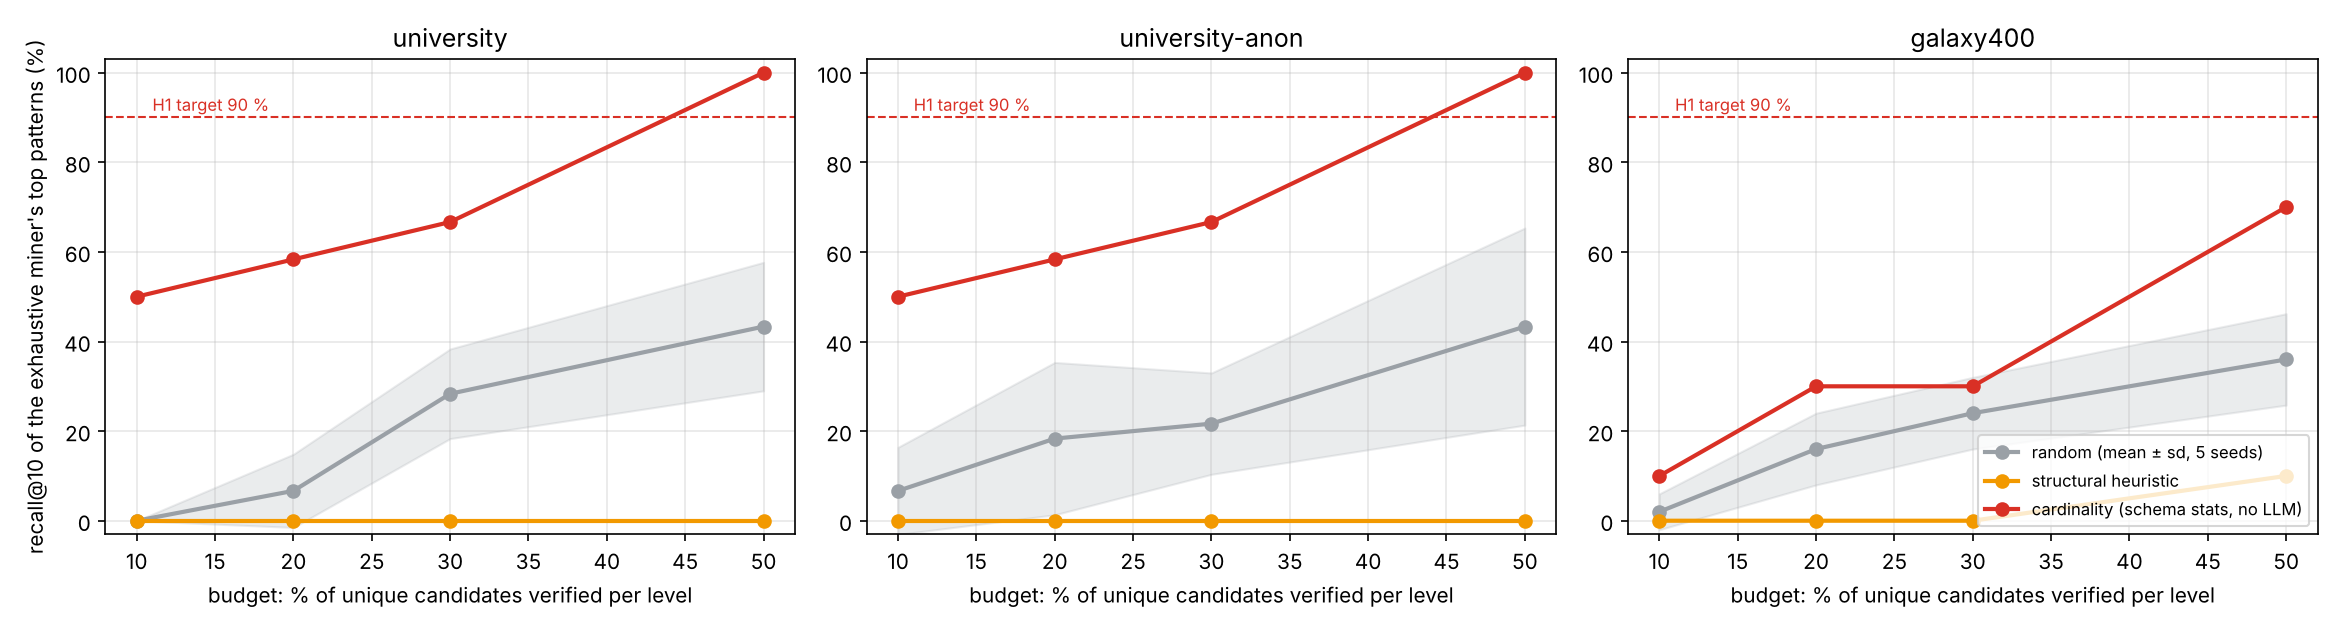
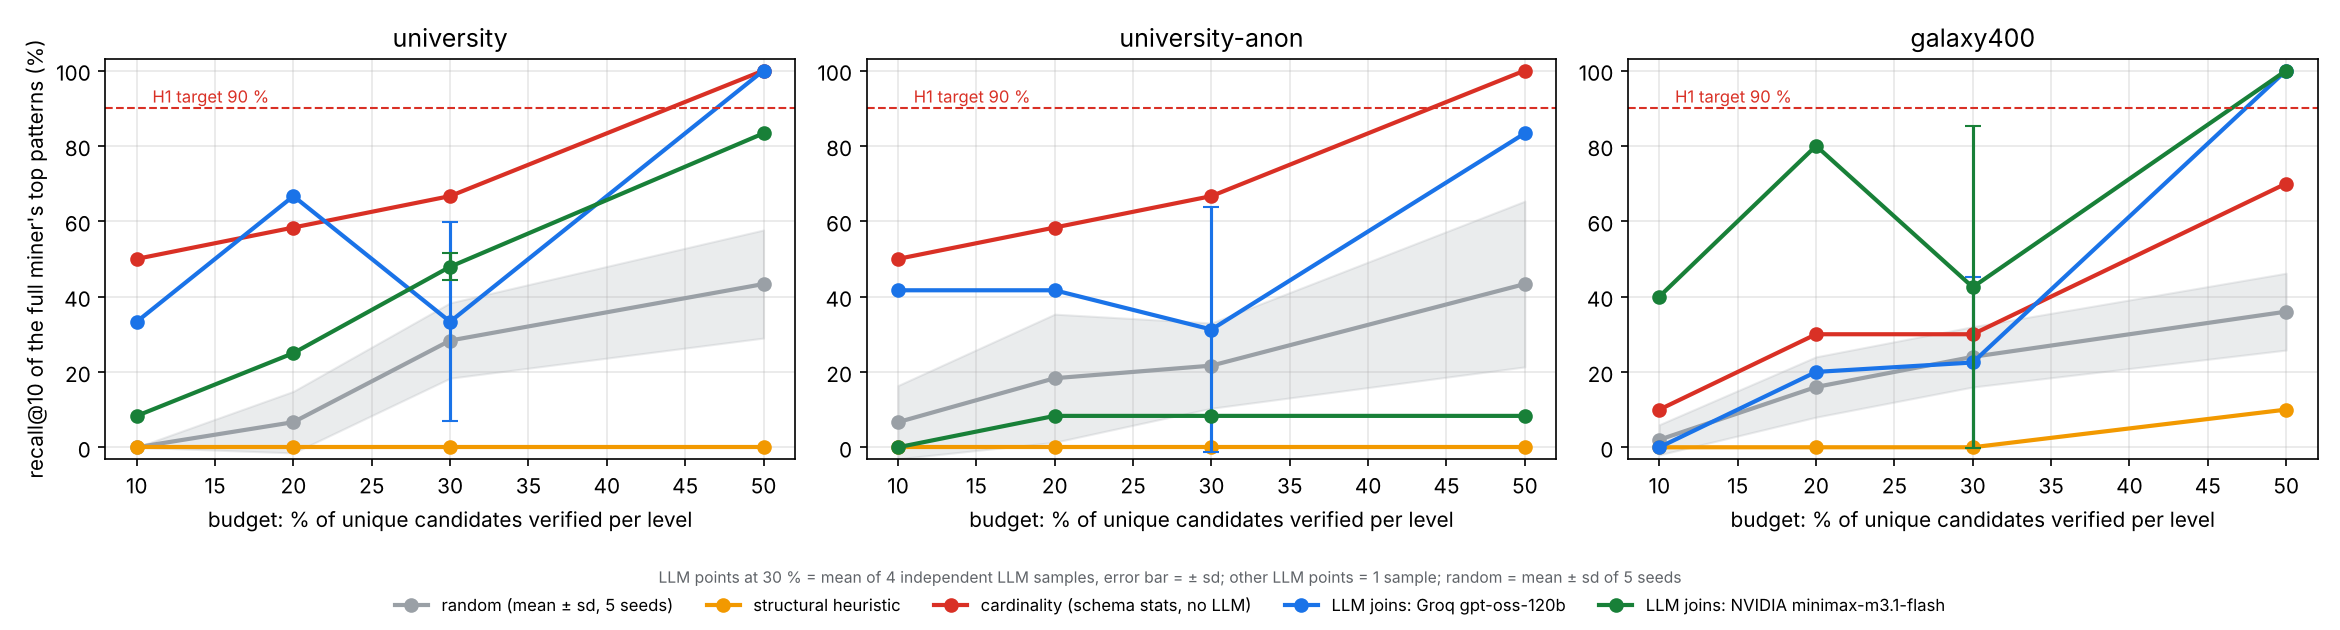
results: regenerate summaries, verdicts and figures

diff --git a/results/results.md b/results/results.md
@@ -8,15 +8,24 @@ Exhaustive @ 100 %: 641 patterns, 13053 candidates verified, 31.4 s; upstream mi
 |---|---:|---:|---:|---:|---:|---:|---:|---:|---:|
 | cardinality | 10 % | 50 % | 41 % | 0.0/3 | 582 | 6.9 | 0.0 | – | – |
 | heuristic | 10 % | 0 % | 0 % | 0.0/3 | 111 | 1.7 | 0.0 | – | – |
+| llm:groq | 10 % | 33 % | 21 % | 0.0/3 | 713 | 15.3 | 9.4 | 4282 / 6250 | 0/3 |
+| llm:nvidia | 10 % | 8 % | 7 % | 0.0/3 | 658 | 44.4 | 39.0 | 4659 / 1551 | 0/3 |
 | random | 10 % | 0 % ± 0 | 3 % | 0.0/3 | 245 | 2.8 | 0.0 | – | – |
 | cardinality | 20 % | 58 % | 66 % | 0.0/3 | 1548 | 11.8 | 0.0 | – | – |
 | heuristic | 20 % | 0 % | 0 % | 0.0/3 | 222 | 1.9 | 0.0 | – | – |
+| llm:groq | 20 % | 67 % | 41 % | 1.0/3 | 1995 | 11.7 | 0.0 | 4282 / 6250 | 0/3 |
+| llm:nvidia | 20 % | 25 % | 41 % | 0.0/3 | 2201 | 12.9 | 0.0 | 4659 / 1551 | 0/3 |
 | random | 20 % | 7 % ± 8 | 8 % | 0.2/3 | 823 | 4.7 | 0.0 | – | – |
 | cardinality | 30 % | 67 % | 76 % | 0.0/3 | 3037 | 19.6 | 0.0 | – | – |
 | heuristic | 30 % | 0 % | 0 % | 0.0/3 | 782 | 2.4 | 0.0 | – | – |
+| llm-direct:groq | 30 % | 67 % | 76 % | 0.0/3 | 2754 | 238.5 | 223.0 | 6346 / 6726 | 151/154 |
+| llm:groq | 30 % | 33 % ± 26 | 30 % | 0.2/3 | 3246 | 31.0 | 16.9 | 4282 / 4602 | 0/3 |
+| llm:nvidia | 30 % | 48 % ± 4 | 44 % | 0.0/3 | 3309 | 58.4 | 42.8 | 4659 / 1551 | 0/3 |
 | random | 30 % | 28 % ± 10 | 23 % | 1.2/3 | 1525 | 7.0 | 0.0 | – | – |
 | cardinality | 50 % | 100 % | 100 % | 3.0/3 | 6527 | 31.9 | 0.0 | – | – |
 | heuristic | 50 % | 0 % | 0 % | 0.0/3 | 2956 | 7.4 | 0.0 | – | – |
+| llm:groq | 50 % | 100 % | 90 % | 3.0/3 | 6378 | 23.8 | 0.0 | 4282 / 6250 | 0/3 |
+| llm:nvidia | 50 % | 83 % | 83 % | 3.0/3 | 6288 | 23.3 | 0.0 | 4659 / 1551 | 0/3 |
 | random | 50 % | 43 % ± 14 | 39 % | 1.4/3 | 3793 | 12.8 | 0.0 | – | – |
 
 ### university-anon
@@ -27,15 +36,24 @@ Exhaustive @ 100 %: 641 patterns, 13053 candidates verified, 31.1 s; upstream mi
 |---|---:|---:|---:|---:|---:|---:|---:|---:|---:|
 | cardinality | 10 % | 50 % | 41 % | 0.0/3 | 582 | 7.3 | 0.0 | – | – |
 | heuristic | 10 % | 0 % | 0 % | 0.0/3 | 111 | 1.9 | 0.0 | – | – |
+| llm:groq | 10 % | 42 % | 34 % | 1.0/3 | 974 | 14.1 | 3.9 | 3954 / 7431 | 0/3 |
+| llm:nvidia | 10 % | 0 % | 0 % | 0.0/3 | 551 | 100.7 | 95.5 | 4167 / 1551 | 0/3 |
 | random | 10 % | 7 % ± 10 | 4 % | 0.2/3 | 255 | 2.7 | 0.0 | – | – |
 | cardinality | 20 % | 58 % | 66 % | 0.0/3 | 1615 | 12.9 | 0.0 | – | – |
 | heuristic | 20 % | 0 % | 0 % | 0.0/3 | 222 | 2.0 | 0.0 | – | – |
+| llm:groq | 20 % | 42 % | 41 % | 1.0/3 | 1978 | 12.1 | 0.0 | 3954 / 7431 | 0/3 |
+| llm:nvidia | 20 % | 8 % | 14 % | 0.0/3 | 2254 | 14.5 | 0.0 | 4167 / 1551 | 0/3 |
 | random | 20 % | 18 % ± 17 | 13 % | 0.2/3 | 847 | 4.9 | 0.0 | – | – |
 | cardinality | 30 % | 67 % | 76 % | 0.0/3 | 3037 | 20.9 | 0.0 | – | – |
 | heuristic | 30 % | 0 % | 0 % | 0.0/3 | 333 | 2.0 | 0.0 | – | – |
+| llm-direct:groq | 30 % | 67 % | 76 % | 0.0/3 | 3037 | 291.3 | 274.8 | 6045 / 6694 | 167/170 |
+| llm:groq | 30 % | 31 % ± 32 | 41 % | 1.5/3 | 2970 | 31.7 | 18.8 | 3954 / 4097 | 0/3 |
+| llm:nvidia | 30 % | 8 % ± 0 | 12 % | 0.0/3 | 3195 | 57.8 | 43.1 | 4167 / 1551 | 0/3 |
 | random | 30 % | 22 % ± 11 | 23 % | 0.4/3 | 1703 | 7.8 | 0.0 | – | – |
 | cardinality | 50 % | 100 % | 100 % | 3.0/3 | 6527 | 31.7 | 0.0 | – | – |
 | heuristic | 50 % | 0 % | 0 % | 0.0/3 | 2956 | 7.4 | 0.0 | – | – |
+| llm:groq | 50 % | 83 % | 93 % | 3.0/3 | 5662 | 19.2 | 0.0 | 3954 / 7431 | 0/3 |
+| llm:nvidia | 50 % | 8 % | 14 % | 0.0/3 | 5861 | 20.4 | 0.0 | 4167 / 1551 | 0/3 |
 | random | 50 % | 43 % ± 22 | 41 % | 1.4/3 | 3990 | 13.6 | 0.0 | – | – |
 
 ### galaxy400
@@ -46,18 +64,40 @@ Exhaustive @ 100 %: 115 patterns, 4267 candidates verified, 9.2 s; upstream mine
 |---|---:|---:|---:|---:|---:|---:|---:|---:|---:|
 | cardinality | 10 % | 10 % | 16 % | – | 204 | 4.4 | 0.0 | – | – |
 | heuristic | 10 % | 0 % | 0 % | – | 75 | 2.9 | 0.0 | – | – |
+| llm:groq | 10 % | 0 % | 8 % | – | 197 | 9.6 | 6.5 | 3806 / 3756 | 0/3 |
+| llm:nvidia | 10 % | 40 % | 24 % | – | 231 | 48.7 | 45.5 | 4241 / 1236 | 0/3 |
 | random | 10 % | 2 % ± 4 | 2 % | – | 123 | 3.0 | 0.0 | – | – |
 | cardinality | 20 % | 30 % | 24 % | – | 638 | 5.7 | 0.0 | – | – |
 | heuristic | 20 % | 0 % | 0 % | – | 150 | 3.1 | 0.0 | – | – |
+| llm:groq | 20 % | 20 % | 32 % | – | 605 | 4.5 | 0.0 | 3806 / 3756 | 0/3 |
+| llm:nvidia | 20 % | 80 % | 60 % | – | 622 | 4.1 | 0.0 | 4241 / 1236 | 0/3 |
 | random | 20 % | 16 % ± 8 | 12 % | – | 325 | 3.5 | 0.0 | – | – |
 | cardinality | 30 % | 30 % | 36 % | – | 1106 | 6.5 | 0.0 | – | – |
 | heuristic | 30 % | 0 % | 0 % | – | 225 | 2.4 | 0.0 | – | – |
+| llm-direct:groq | 30 % | 30 % | 32 % | – | 1057 | 77.1 | 71.9 | 1695 / 2913 | 59/60 |
+| llm:groq | 30 % | 22 % ± 23 | 27 % | – | 865 | 159.9 | 155.1 | 3432 / 2532 | 0/3 |
+| llm:nvidia | 30 % | 42 % ± 43 | 35 % | – | 1045 | 34.1 | 29.4 | 4241 / 1236 | 0/3 |
 | random | 30 % | 24 % ± 8 | 21 % | – | 576 | 3.7 | 0.0 | – | – |
 | cardinality | 50 % | 70 % | 72 % | – | 2092 | 7.9 | 0.0 | – | – |
 | heuristic | 50 % | 10 % | 8 % | – | 552 | 3.1 | 0.0 | – | – |
+| llm:groq | 50 % | 100 % | 96 % | – | 2134 | 6.3 | 0.0 | 3806 / 3756 | 0/3 |
+| llm:nvidia | 50 % | 100 % | 88 % | – | 2095 | 6.5 | 0.0 | 4241 / 1236 | 0/3 |
 | random | 50 % | 36 % ± 10 | 38 % | – | 1301 | 4.8 | 0.0 | – | – |
 
 **H1** (budget 30 %, recall@10):
 
 | dataset / ranker | LLM | cardinality | structural | random (mean) | verdict |
 |---|---:|---:|---:|---:|---|
+| university / llm:groq | 33 % | 67 % | 0 % | 28 % | rejected: below 90 % |
+| university / llm:nvidia | 48 % | 67 % | 0 % | 28 % | rejected: below 90 % |
+| university-anon / llm:groq | 31 % | 67 % | 0 % | 22 % | rejected: below 90 % |
+| university-anon / llm:nvidia | 8 % | 67 % | 0 % | 22 % | rejected: below 90 % |
+| galaxy400 / llm:groq | 22 % | 30 % | 0 % | 24 % | rejected: below 90 % |
+| galaxy400 / llm:nvidia | 42 % | 30 % | 0 % | 24 % | rejected: below 90 % |
+
+**H2** (LLM − best cheap baseline, recall@10, budget 30 %):
+
+| ranker | named | anonymised | verdict |
+|---|---:|---:|---|
+| llm:groq | -33 pts | -35 pts | not supported |
+| llm:nvidia | -19 pts | -58 pts | not supported |
